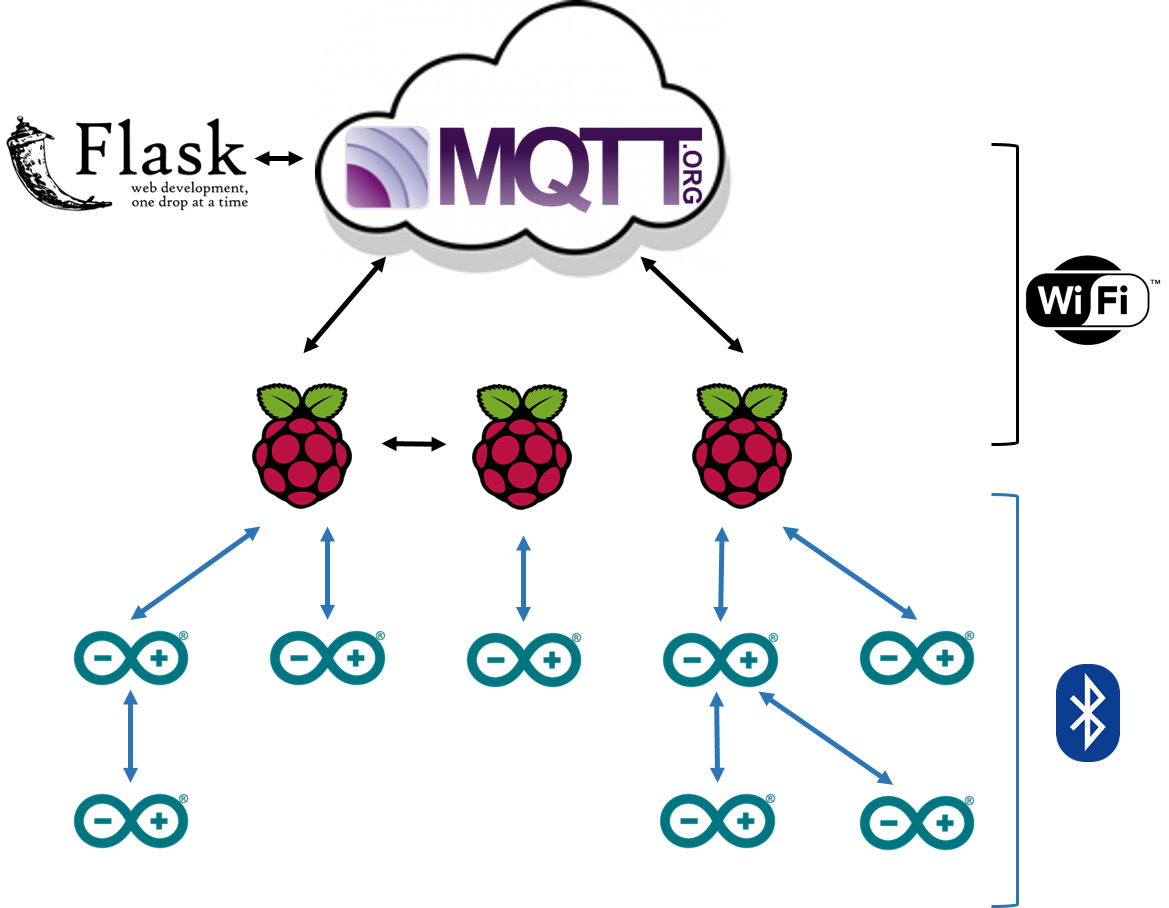
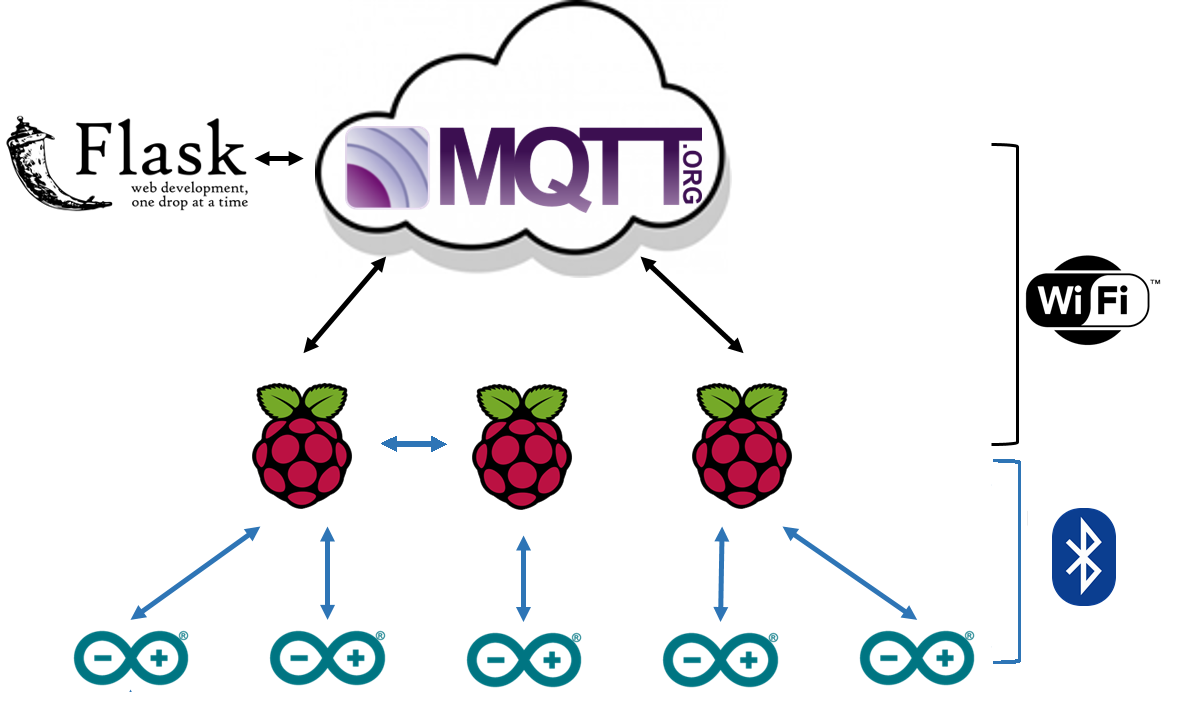
Committing current progress
Changes:
- Rewrite previous
- Add draft protocols
- Add paragraph on broker services
- Update Architecture.png

diff --git a/Development/Report/sections/implemenation.tex b/Development/Report/sections/implemenation.tex
@@ -1,15 +1,20 @@
 % TODO:
 % Better picture of HC-05?
-% Update architecture PNG - ardiunos don't talk to arduinos
+% Update architecture PNG - Are we including PI talks to PI?
 % Architecture figure to different section
 % 'IoT' or 'Internet of Things'? need to define IoT earlier!
-% Mention outreach?
+% Mention outreach? - perhaps to introduce the graph section
 % Sort out topics!
+% - What is broker-services/hello?
+% - Don't post the time in the last will
+% - Order of time and status
 % Ensure that what is written here about Bluetooth working with our setup if a set of devices is provided is correct
 % Sort out tenses
+% Confirm 'suffix' is a correct term for final topic in MQTT?
+% The section on broker services shouldn't live under protocols
 
 
-We implemented a test bed for future development of an Internet of Things security protocol. Our proof-of-concept uses standard IoT components to produce a system that propagates data over the different levels of our architecture, demonstrating common features of a large scale infrastructure.
+We implemented a test bed for future development of an Internet of Things security protocol. Our proof-of-concept used standard IoT components to produce a system that moved data over the different levels of our architecture, demonstrating common features of a large scale infrastructure.
 
 
 % ✔ We wanted to make a prototype for use as a test bed (or proof-of-concept) for future development of an IoT security protocol, blah.
@@ -18,8 +23,8 @@ We implemented a test bed for future development of an Internet of Things securi
 
 
 \subsection{Equipment}
-
-For Edge Devices, we used Arduino Unos which are inexpensive (£25-30), low powered and portable making them a popular choice for use with IoT. With 14 inputs and outputs (analog and digital), these microcontrollers can be loaded with pre-compiled programs to interact with sensors. For communication, we used serial to send and receive data with the Smart Agents. This was wired (over USB) or wireless through the addition of a HC-05 Bluetooth module (see Figure \ref{fig:HC-05}).
+\paragraph{}
+For Edge Devices, we used Arduino Unos which are inexpensive (£25-30), low powered and portable making them a popular choice for use with IoT. With 14 inputs and outputs (analog and digital), these microcontrollers can be loaded with pre-compiled programs to interact with sensors. To communicate with Smart Agents, we used Serial over either USB or Bluetooth (through the addition of a HC-05 Bluetooth module - see Figure \ref{fig:HC-05}).
 
 
 \begin{figure}
@@ -29,10 +34,11 @@ For Edge Devices, we used Arduino Unos which are inexpensive (£25-30), low powe
     \label{fig:HC-05}
 \end{figure}
 
+\paragraph{}
+As Smart Agents, we used the Raspberry PI 3 which is a single board computer. Communication with Edge Devices and the Cloud was possible over USB, Ethernet, WiFi and Bluetooth without any additional adapters. The PI can run PC scale applications headless on its Linux operating system. Its low price, small form factor and low power requirement make it popular for IoT.
 
-As Smart Agents, we used the Raspberry PI 3 - a single board computer. It has USB, Ethernet, WiFi and Bluetooth built in, enabling communication with the Edge Devices and the Cloud. Also popular for IoT applications due to its low price, the PI can run PC scale applications on its Linux operating system.
-
-We used STFC's SCD Cloud which gave access to a virtual machine running Scientific Linux 7. A common LAN enabled communication with the Smart Agents.
+\paragraph{}
+We used STFC's SCD Cloud for access to a virtual machine running Scientific Linux 7. A common LAN enabled TCP/IP communication between this machine and the Smart Agents or the viewer of the web application.
 
 % ✔ We used Arduino Unos (£25-30) as edge devices. They have X inputs and outputs (analog and digital) and can be loaded with pre-compiled programs.
 % ✔ HC-05 chip for Bluetooth option (picture of HC-05, range=10m?, cost=£4...)
@@ -48,24 +54,59 @@ We used STFC's SCD Cloud which gave access to a virtual machine running Scientif
     \label{fig:architecture}
 \end{figure}
 
-The Cloud machine was setup as the MQTT broker using Mosquitto. There were three endpoints that communicate with the hub: Smart Agents, Broker Services and the web application. The Smart Agents interacted with the hub over TCP/IP using the Paho MQTT client library for Python. Each acted as a gateway to the Cloud for any connected Edge Devices. Broker Services ran on the Cloud as a Python script, also using Paho. Its purpose was to publish a list of currently connected devices for discovery. Using a Flask module - Flask-MQTT - a web application is served allowing a user to subscribe to topics for an overview of the data flows in the network. 
+\paragraph{}
+The Cloud VM was setup as the MQTT broker using Mosquitto. There were three endpoints contacting it: Smart Agents, Broker Services and the web application. Using the Paho MQTT client library for Python, the Smart Agents acted as a gateway to the Cloud for any connected Edge Devices. Broker Services ran on the Cloud as a Python application (also using Paho) to publish a list of currently connected devices for discovery. Using a Flask module (Flask-MQTT) to serve a web application, a user could subscribe to topics for an overview of the data flows in the network.
 
-A Smart Agent can connect up to seven devices in a Bluetooth piconet. The agent scans for devices with a name matching a predefined address pattern, and then attempts to connect. However, each PI has a single Bluetooth chip so it cannot scan for devices and receive/send simultaneously. With scanning taking approximately twenty seconds, it was interrupting communication by introducing a delay. To counter this, we used a fixed list of devices to connect to which are always available making scanning unnecessary. While this seems restrictive, it works adequately for a variety of use cases - such as statically placed sensors in a house or vehicle controlled by a central smart agent. Alternatively, the same serial protocol can work over USB where scanning is almost instantaneous and Edge Devices can be connected or removed at will.
+\paragraph{}
+A Smart Agent could have up to seven Edge Devices in a Bluetooth piconet. The agent scanned for a name matching a predefined pattern and then attempted to connect. However, with only one Bluetooth chip, each PI could not send/receive while scanning so communications experienced a substantial delay (roughly 20s). To counter this, we used a fixed list of Edge Devices per Smart Agent which were always available. While seemingly restrictive, this would work adequately for a variety of use cases - such as a central Smart Agent controlling statically placed sensors in a house or vehicle. Alternatively, the same serial protocol can work over USB where Edge Devices can be connected or removed as necessary and detected almost instantaneously (but were restricted by a physical connection).
 
-
-% Each edge device is identified by a unique ID which is a random number 
+% ✔ Each edge device is identified by a unique ID which is a random number
 % ✔ Communication between Smart Agent and Edge via Bluetooth.
 % What is Bluetooth /why is it a good option for communicating with low memory/power/connectivity devices? PAIRING!
 % ✔ Smart agents run Piduino to interface between MQTT Pub/Sub and the inputs and outputs in the edge
 % ✔ Broker (mosquitto) runs on cloud, as does telemetry and monitoring applications (broker services) and a flask app.
 % Pretty diagrams and pictures of the equipment
-
 % ✔ Diagram with the pretty logos on it I made for the pre-coffee talk. I’ll go find it. The programming
-% Exact topic structure that we used
-% Pretty graph of some data collected
+
+\subsection{Protocols}
+
+There were protocols for connection, normal operation and disconnection.
+
+\paragraph{} % Connection
+The connection protocol consisted of establishing a unique id and publishing it to make other devices aware. Our Smart Agents were hardcoded with a unique identification string referred to as \verb|AgentName| - the base topic for communication. On connection to the broker, each Smart Agent published 'C' to \verb|AgentName/private/status|. As each Edge Device connected, the Smart Agent initiated a handshake protocol to prompt the new device to send the random number it generated for its id on start-up. This id was then appended to a list which is encoded as JSON and published on the broker under \verb|AgentName/private/edge|. Updates to these two topics were made using retained messages so that the most up to date information was immediately sent to each new subscriber.
+
+\paragraph{} % Normal operation
+During normal operation, the Smart Agent acted as a sophisticated gateway for the Edge Devices to communicate with the Cloud. It subscribed to \verb|AgentName/public/EdgeId/output/outputName| for each \verb|EdgeId| of its Edge Devices. The suffix (\verb|outputName|) refers to a specific output attached to that Edge Device (e.g. an LED). It took any message it receives on these topics and sends a package of \verb|outputName| and the message payload to the specific Edge Device. For example if it received a payload of '1' on \verb|AgentName/public/EdgeId/output/buzzer| it sent a message instructing the Edge Device to turn on the buzzer. Similarly, when the Edge Device sent data packaged with a data value and a \verb|sensorName|, the Smart Agent published this data under \verb|AgentName/public/EdgeId/input/sensorName|.
+
+\paragraph{} % Disconnection
+There were two types of Smart Agent disconnections: graceful and ungraceful. The disconnection protocols began after initial connection to the broker when the Smart Agent set its last will as 'DU' on the status topic. This meant that if the socket to the broker closed unexpectedly, then the broker would update the agent's status to show an ungraceful disconnection. Alternatively, if the Smart Agent intended to disconnect (for example before shutdown) then it posted 'DG' to the status topic. As with connection, these were set as retained messages.
+
+\paragraph{} % Broker Services
+Broker Services subscribed to the status topic of each of the Smart Agent and maintained a central list of those which were currently available. It published the list as JSON on \verb|broker-services/discovery| with a retained message, making it easy to discover devices on the network. While the application ran on the Cloud server for convenience, this was unnecessary as it could have run from anywhere with network connection to the broker. The functionality could also be imported as a module, enabling any Smart Agent to track the available agents without depending on the central instance (although it would have to subscribe and process individual status updates from all Smart Agents).
+
+\begin{center}
+    \begin{table}
+        \begin{tabular}{ | l | p{7cm} |}
+        \hline
+        Key Topic & Description of Content \\ \hline
+        broker-services/discover & Broker Services maintains a list of currently connected devices here as a retained message.\\ \hline
+        AgentName/public/EdgeId/input/sensorName & Data collected from \verb|sensorName| by \verb|EdgeId| connected to \verb|AgentName| \\ \hline
+        AgentName/public/EdgeId/output/outputName & Commands sent to \verb|outputName| by \verb|EdgeId| connected to \verb|AgentName| \\ \hline
+        AgentName/private/log & Debugging information for \verb|AgentName| \\ \hline
+        AgentName/private/error & Debugging information for \verb|AgentName| \\ \hline
+        AgentName/private/status & The current status of \verb|AgentName| starting with 'C', 'DG', 'DU' for connected, disconnected gracefully and disconnected ungracefully respectively. \\ \hline
+        AgentName/private/edge & List of the \verb|EdgeId|s of Edge Devices connected to Smart Agent \verb|AgentName| \\
+        \hline
+        \end{tabular}
+        \caption{The MQTT topics which were used and description of their messages.}
+    \end{table}
+\end{center}
+
+% ✔ Exact topic structure that we used
+% ✔ Diagram of topic structure
 
 \subsection{Data}
-could record data from sensors on the Edge Devices, forward it to a Smart Agent that would handle publishing the data to the Cloud. The Cloud  
 
+% Pretty graph of some data collected
 % Graph, and also some brief waffle about what’s on the graph.
 % Picture of the Arduino/raspberry pi setup
